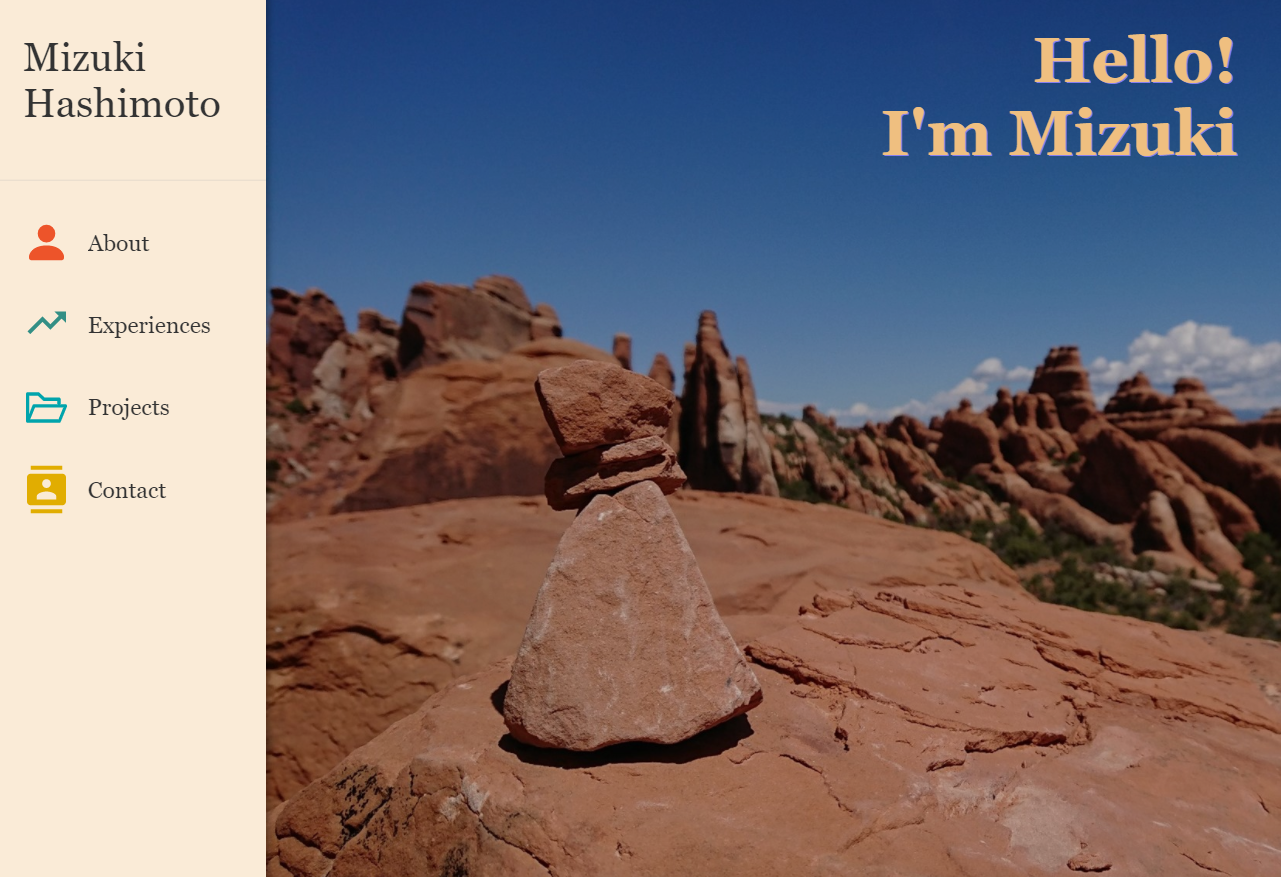
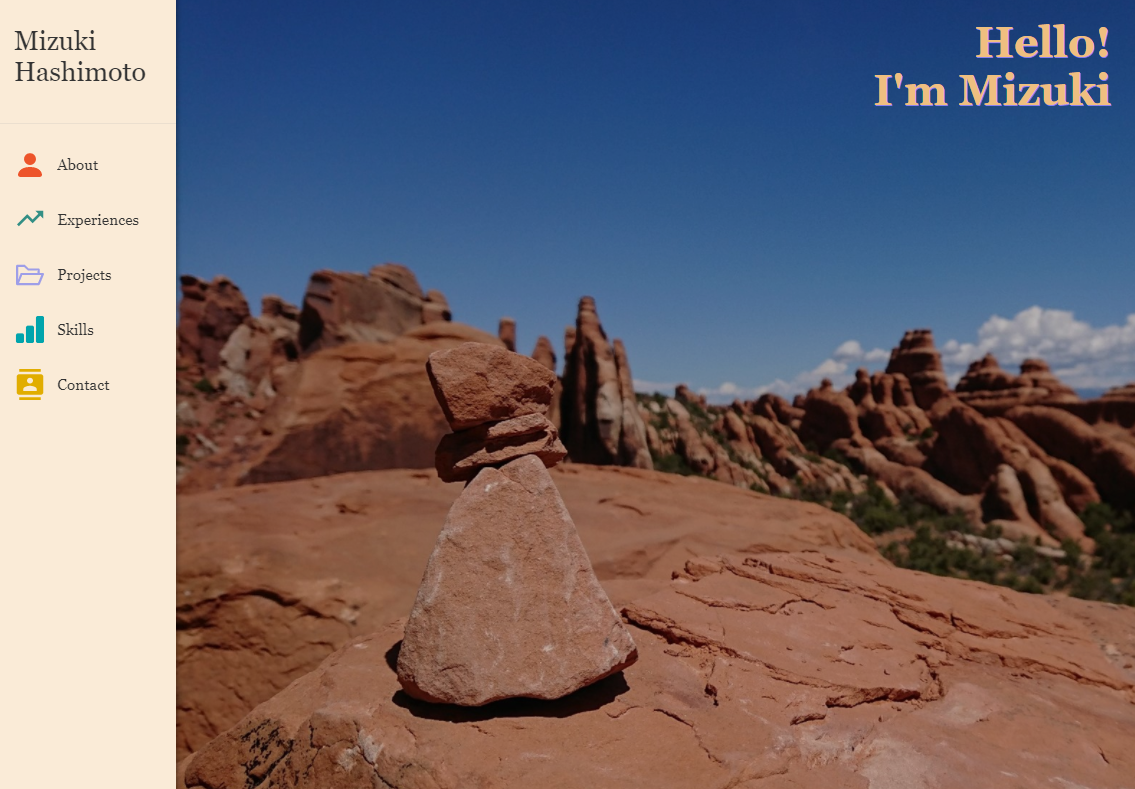
chore: Change thumbnail, nomenclature, etc.

diff --git a/portfolio/components/Layout.tsx b/portfolio/components/Layout.tsx
@@ -1,4 +1,4 @@
-import React, { ReactNode, useState, useEffect } from 'react'
+import React, { ReactNode, useState, useEffect, useRef } from 'react'
 import Head from 'next/head'
 import { ThemeProvider as MaterialThemeProvider } from '@material-ui/core'
 import styled, {ThemeProvider as StyledThemeProvider} from 'styled-components'
@@ -11,17 +11,25 @@ type Props = { children?: ReactNode }
 
 const Layout = ({ children }: Props) => {
   const [isMediaMatched, setIsMediaMatched] = useState(false)
+  const isInitialMount = useRef(true)
 
   useEffect(() => {
-    document.body.style.margin = '0'
-    document.body.style.fontFamily = 'Georgia, serif'
-    document.body.style.backgroundColor = theme.palette.primary.main
+    if (isInitialMount.current) {
+      document.body.style.margin = '0'
+      document.body.style.fontFamily = 'Georgia, serif'
+      document.body.style.backgroundColor = theme.palette.primary.main
 
-    // avoid 'window is not defined' error which probably caused by SSR
-    setIsMediaMatched(window.matchMedia('(max-width: 1000px)').matches)  // initial check
+      // avoid 'window is not defined' error which probably caused by SSR
+      setIsMediaMatched(window.matchMedia('(max-width: 1000px)').matches)  // initial check
 
-    window.matchMedia('(max-width: 1000px)').onchange = (e) =>
-      setIsMediaMatched(e.matches)
+      isInitialMount.current = false
+    } else {
+      window.matchMedia('(max-width: 1000px)').onchange = (e) =>
+        setIsMediaMatched(e.matches)
+      
+      // clean up
+      return () => { window.matchMedia('(max-width: 1000px)').onchange = null }
+    }
   })
 
   return (

diff --git a/portfolio/components/sidebar/SidebarMobile.tsx b/portfolio/components/sidebar/SidebarMobile.tsx
@@ -10,17 +10,17 @@ import { MenuItemInfo } from './types'
 import { menuItems } from './menuItemInfo'
 
 const SidebarMobile = (): JSX.Element => {
-  const [toggled, setToggled] = useState(false)
+  const [isToggled, setIsToggled] = useState(false)
   const [items, setItems] = useState<MenuItemInfo[]>(menuItems)
   const menuRef = useRef<HTMLDivElement>(null)
 
-  const handleMenuClick = () => !menuRef.current && setToggled(!toggled)
+  const handleMenuClick = () => !menuRef.current && setIsToggled(!isToggled)
 
   // close the menu when clicked outside of the menu
   useEffect(() => {
     const handleClickOutside = (e: MouseEvent) => {
       if (menuRef.current && !menuRef.current.contains(e.target as HTMLElement))
-        setToggled(false)
+        setIsToggled(false)
     }
 
     document.addEventListener('mousedown', handleClickOutside)
@@ -49,7 +49,7 @@ const SidebarMobile = (): JSX.Element => {
           </SidebarHeader>
         </ProSidebar>
       </SidebarHeaderWrapper>
-      <Slide direction='right' in={toggled} mountOnEnter unmountOnExit>
+      <Slide direction='right' in={isToggled} mountOnEnter unmountOnExit>
         <SidebarContentWrapper ref={menuRef}>
           <ProSidebar>
               <SidebarContent>

diff --git a/portfolio/components/contents/about/About.tsx b/portfolio/components/contents/about/About.tsx
@@ -23,8 +23,8 @@ const About = (): JSX.Element => {
             <Avatar alt='Mizuki Hashimoto' src='/img/profpic.jpg' className={classes.avatar} />
             <Divider />
             <Typography variant='h6' component='p'>
-              I am Mizuki Hashimoto, recently graduated from Juniata College
-              with a major in Computer Science and a minor in Chemistry.
+              I am Mizuki Hashimoto. I was born in Japan. I recently graduated from 
+              Juniata College with a major in Computer Science and a minor in Chemistry.
               I am currently seeking an intern or a beginner role as a software
               engineer, but am open to any opportunity because I enjoy challenging
               new things.

diff --git a/portfolio/components/contents/Top.tsx b/portfolio/components/contents/Top.tsx
@@ -3,11 +3,11 @@ import { Slide } from '@material-ui/core'
 import styled from 'styled-components'
 
 const Top = (): JSX.Element => {
-  const [loaded, setLoaded] = useState(false)
+  const [isLoaded, setIsLoaded] = useState(false)
 
   useEffect(() => {
-    setLoaded(true)
-  })
+    setIsLoaded(true)
+  }, [])
 
   return (
     <TopWrapper id='top'>
@@ -15,7 +15,7 @@ const Top = (): JSX.Element => {
         <WelcomeMsgWrapper>
           <Slide
             direction='left'
-            in={loaded}
+            in={isLoaded}
             timeout={1000}
             mountOnEnter
             unmountOnExit

diff --git a/portfolio/components/theme.ts b/portfolio/components/theme.ts
@@ -8,8 +8,9 @@ const theme = createMuiTheme({
     },
     text: {
       primary: '#333',
-      secondary: '#777',
+      secondary: '#666',
     },
+    divider: 'rgba(0, 0, 0, 0.48)',
   },
   typography: {
     fontFamily: [
